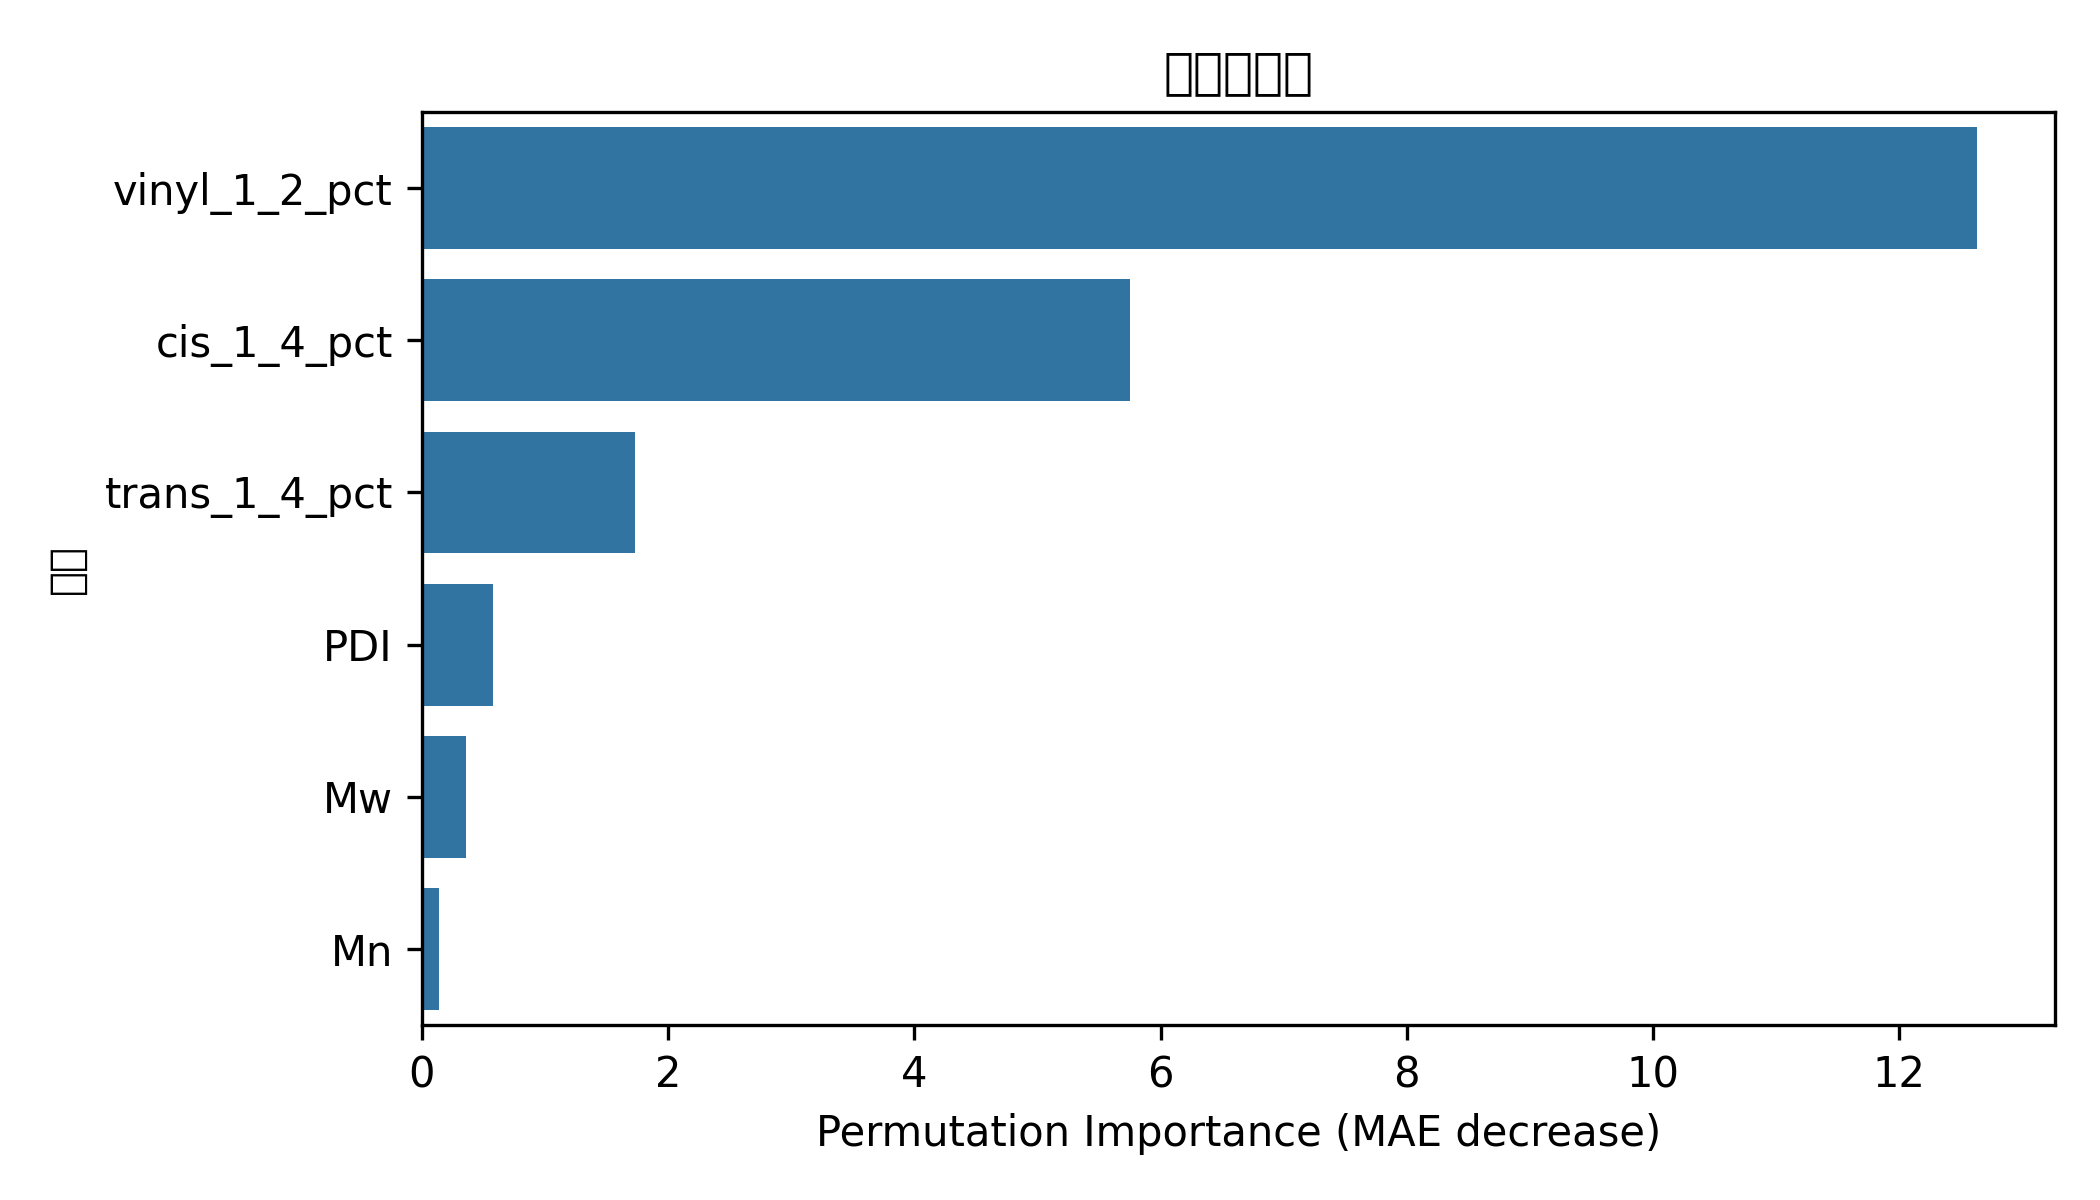
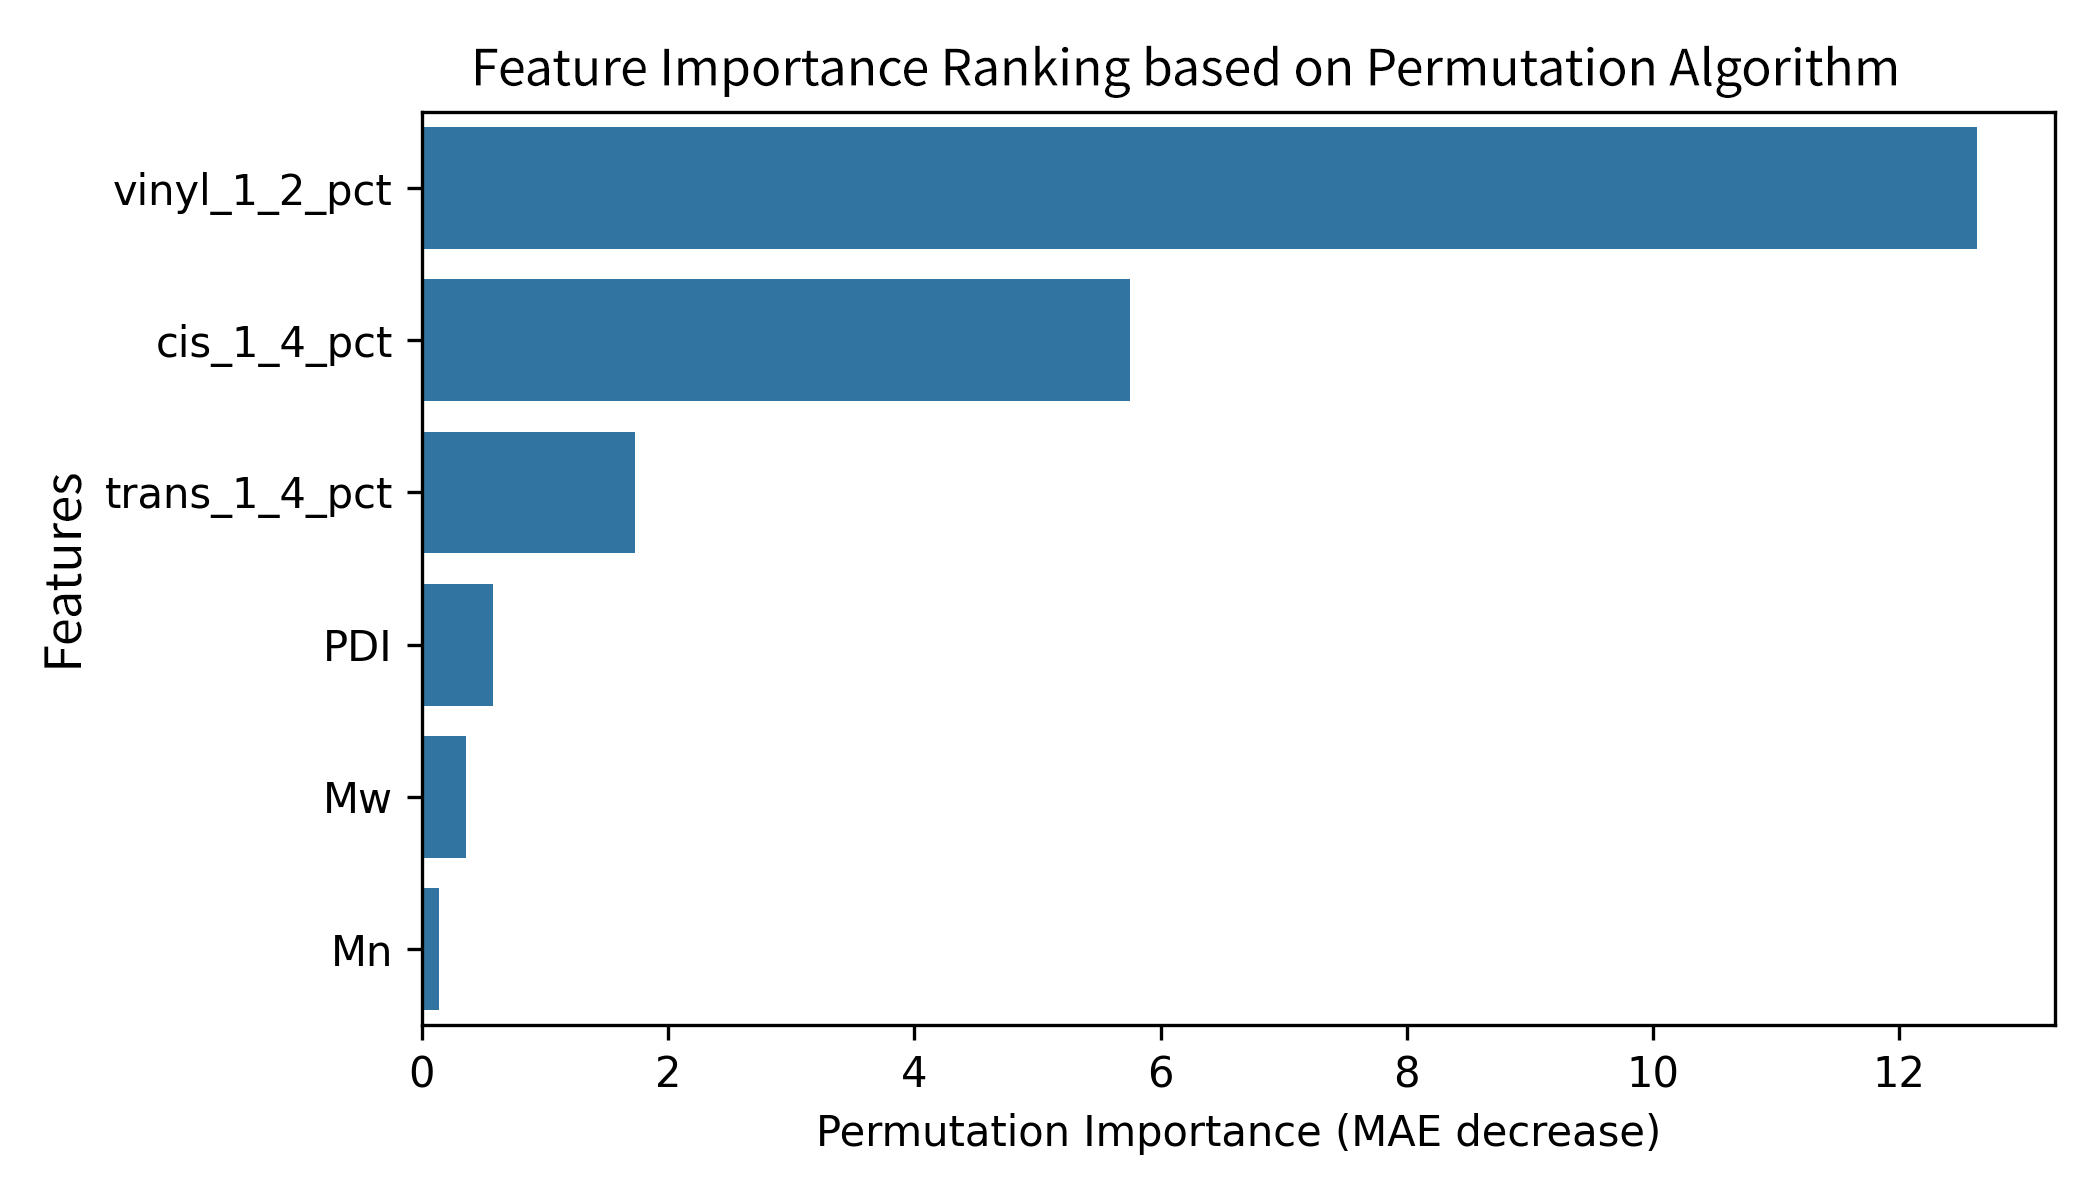
Add files via upload

diff --git a/plot_slide11.py b/plot_slide11.py
@@ -1,0 +1,126 @@
+import matplotlib.pyplot as plt
+import numpy as np
+import os
+from pathlib import Path
+
+def plot_nested_cv_comparison():
+    # 確保輸出目錄存在
+    out_dir = Path("outputs/figures")
+    out_dir.mkdir(parents=True, exist_ok=True)
+
+    # 提取自您項目 json 文件的真實評估數據
+    labels = ['常規重複 K 折 CV\n(存在洩漏風險)', '嵌套交叉驗證 Nested CV\n(嚴格防洩漏)']
+    
+    # R2 數據 (0.151 vs -0.182)
+    r2_means = [0.1511, -0.1820]
+    r2_stds = [2.334, 1.5] # 示意標準差
+    
+    # MAE 數據 (9.25 vs 10.00)
+    mae_means = [9.2545, 9.9960]
+    mae_stds = [5.101, 5.2] 
+
+    x = np.arange(len(labels))
+    width = 0.4  # 柱狀圖寬度
+
+    # 設置高學術質感的圖表風格
+    plt.style.use('seaborn-v0_8-whitegrid')
+    plt.rcParams['font.sans-serif'] = ['Microsoft YaHei', 'SimHei', 'Arial Unicode MS'] # 支援中文
+    plt.rcParams['axes.unicode_minus'] = False
+    
+    fig, (ax1, ax2) = plt.subplots(1, 2, figsize=(10, 5), dpi=300)
+
+    # 繪製 R2 對比圖 (越接近1越好，負數代表預測崩塌)
+    bars1 = ax1.bar(x, r2_means, width, color=['#4C72B0', '#C44E52'], edgecolor='black', alpha=0.85)
+    ax1.set_ylabel('$R^2$ 決定係數 (越高越好)', fontsize=12, fontweight='bold')
+    ax1.set_title('複雜模型泛化解釋力對比', fontsize=14, fontweight='bold')
+    ax1.set_xticks(x)
+    ax1.set_xticklabels(labels, fontsize=11)
+    ax1.axhline(0, color='black', linewidth=1.2, linestyle='--') # 加入0刻度基準線
+    
+    # 為 R2 標註數值
+    for bar in bars1:
+        yval = bar.get_height()
+        offset = 0.05 if yval > 0 else -0.15
+        ax1.text(bar.get_x() + bar.get_width()/2, yval + offset, 
+                 f'{yval:.3f}', ha='center', va='bottom', fontsize=11, fontweight='bold')
+
+    # 繪製 MAE 對比圖 (越低越好)
+    bars2 = ax2.bar(x, mae_means, width, color=['#55A868', '#DD8452'], edgecolor='black', alpha=0.85)
+    ax2.set_ylabel('MAE 預測誤差 / $^\circ$C (越低越好)', fontsize=12, fontweight='bold')
+    ax2.set_title('複雜模型絕對誤差對比', fontsize=14, fontweight='bold')
+    ax2.set_xticks(x)
+    ax2.set_xticklabels(labels, fontsize=11)
+    
+    # 為 MAE 標註數值
+    for bar in bars2:
+        yval = bar.get_height()
+        ax2.text(bar.get_x() + bar.get_width()/2, yval + 0.2, 
+                 f'{yval:.2f}', ha='center', va='bottom', fontsize=11, fontweight='bold')
+
+    # 調整佈局並保存
+    plt.tight_layout()
+    save_path = out_dir / "nested_cv_comparison.png"
+    plt.savefig(save_path, bbox_inches='tight')
+    print(f"成功生成圖表，已保存至: {save_path}")
+    plt.close()
+
+if __name__ == "__main__":
+    plot_nested_cv_comparison()
+
+
+
+
+def nested_cv_random_forest(
+    X: pd.DataFrame,
+    y: pd.Series,
+    n_splits: int = 5,
+    n_repeats: int = 3,
+    random_state: int = 42,
+    n_iter: int = 20,
+) -> Dict[str, float]:
+    # 外層迴圈：建立用於獨立評估的交叉驗證劃分
+    outer_cv = _safe_repeated_kfold(
+        n_samples=len(X),
+        n_splits=n_splits,
+        n_repeats=n_repeats,
+        random_state=random_state,
+    )
+
+    scores_r2 = []
+    scores_mae = []
+    scores_rmse = []
+
+    # 遍歷外層迴圈：嚴格隔離訓練集與測試集
+    for fold_idx, (train_idx, test_idx) in enumerate(outer_cv.split(X, y), start=1):
+        X_train, X_test = X.iloc[train_idx], X.iloc[test_idx]
+        y_train, y_test = y.iloc[train_idx], y.iloc[test_idx]
+
+        # 內層迴圈：僅使用當前的 X_train 和 y_train 進行模型超參數尋優
+        # 這裡呼叫了 tune_random_forest，它內部自帶了一層 RandomizedSearchCV
+        tuned_model, _ = tune_random_forest(
+            X_train,
+            y_train,
+            n_splits=min(n_splits, len(X_train)),
+            n_repeats=max(1, n_repeats),
+            random_state=random_state + fold_idx,
+            n_iter=n_iter,
+        )
+
+        # 使用內層尋優得到的最佳模型，對從未見過的外層測試集進行預測
+        pred = tuned_model.predict(X_test)
+        
+        # 記錄真實的泛化性能指標
+        scores_r2.append(r2_score(y_test, pred))
+        scores_mae.append(mean_absolute_error(y_test, pred))
+        scores_rmse.append(np.sqrt(mean_squared_error(y_test, pred)))
+
+    # 回傳嚴格防洩漏條件下的綜合評估指標
+    return {
+        "r2_mean": float(np.mean(scores_r2)),
+        "r2_std": float(np.std(scores_r2, ddof=1)) if len(scores_r2) > 1 else 0.0,
+        "mae_mean": float(np.mean(scores_mae)),
+        "mae_std": float(np.std(scores_mae, ddof=1)) if len(scores_mae) > 1 else 0.0,
+        "rmse_mean": float(np.mean(scores_rmse)),
+        "rmse_std": float(np.std(scores_rmse, ddof=1)) if len(scores_rmse) > 1 else 0.0,
+        "n_outer_folds": int(len(scores_r2)),
+    }

diff --git a/main.py b/main.py
@@ -189,3 +189,39 @@ def main() -> None:
 
 if __name__ == "__main__":
     main()
+
+
+# 基于置换特征归因算法的模型物理机制解构
+from sklearn.inspection import permutation_importance
+
+def calculate_permutation_importance(model, X_tensor, y_target, n_repeats=30):
+    # 破坏特定特征的空间分布以测定其对相变温度预测的真实贡献度
+    result = permutation_importance(
+        model, X_tensor, y_target,
+        scoring="neg_mean_absolute_error", # 以 MAE 误差的增加量作为表征标准
+        n_repeats=n_repeats, 
+        random_state=42,
+        n_jobs=-1
+    )
+    # 聚合输出各微结构参数的统计权重
+    return pd.DataFrame({
+        "feature": X_tensor.columns,
+        "importance_mean": result.importances_mean,
+        "importance_std": result.importances_std
+    })
+
+
+
+from sklearn.inspection import permutation_importance
+
+def permutation_feature_importance(model, X, y, n_repeats=30):
+    # 引入蒙特卡洛随机化扰动，破坏单一特征的空间分布
+    # 以预测误差(MAE)的退化程度，严格量化该特征的真实物理贡献度
+    result = permutation_importance(
+        model, X, y,
+        scoring="neg_mean_absolute_error", # 严苛的误差评估基准
+        n_repeats=n_repeats, 
+        random_state=42,
+        n_jobs=-1
+    )
+    return result
